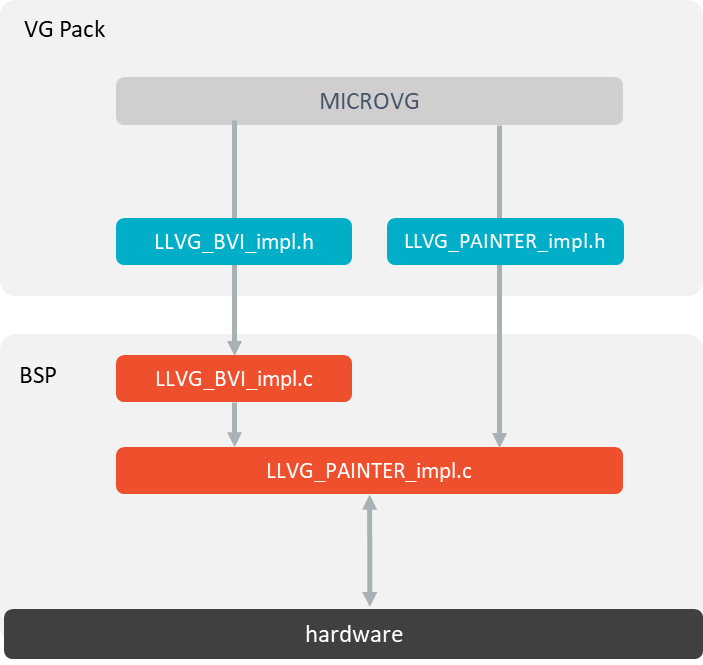
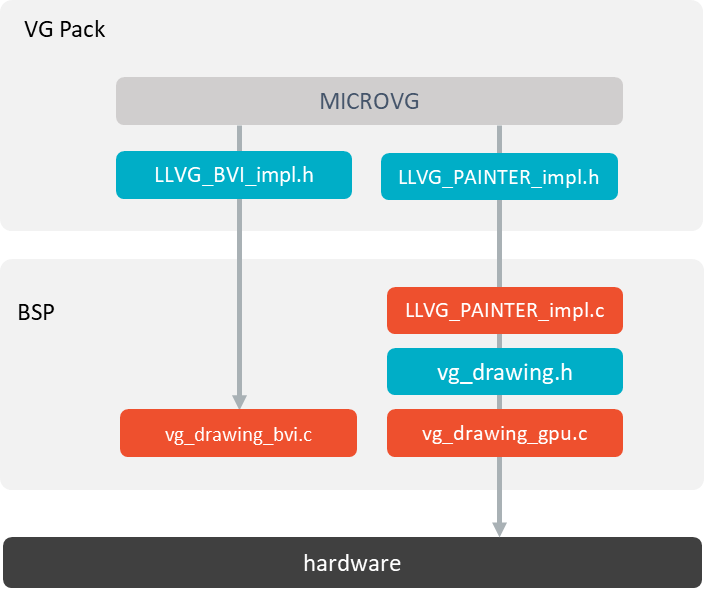
fix llapi vg bvi

diff --git a/VEEPortingGuide/vgImage.rst b/VEEPortingGuide/vgImage.rst
@@ -267,7 +267,9 @@ There are two separate Abstraction Layer API header files:
    Image Abstraction Layer API
 
 * MicroVG library calls the BSP functions through the header files ``LLVG_BVI_impl.h`` and ``LLVG_PAINTER_impl.h``.
-* A C module dedicated to a GPU provides an implementation of ``LLVG_BVI_impl.h`` and ``LLVG_PATH_PAINTER_impl.h``: the implementation is specific to the target (the GPU): the format of the RAW paths, gradients, and animations are GPU compliant.
+* The :ref:`C module MicroVG <section_vg_c_module_microvg>` an implementation of ``LLVG_PAINTER_impl.c`` that synchronizes the drawing with the MicroUI Graphics Engine and redirects the drawing itself to a third-party drawer through ``vg_drawing.h``.
+* A C module dedicated to a GPU provides an implementation of this drawer (``vg_drawing_gpu.c``) that implements the drawings over the GPU library.
+* This dedicated GPU C module provides an implementation of ``LLVG_BVI_impl.h`` (``LLVG_BVI_impl_gpu.c``): the implementation is specific to the target (the GPU): the format of the RAW paths, gradients, and animations are GPU compliant.
 * These files are automatically copied in the BSP project when fetching the C modules during the VEE Port build.
 
 Simulation
